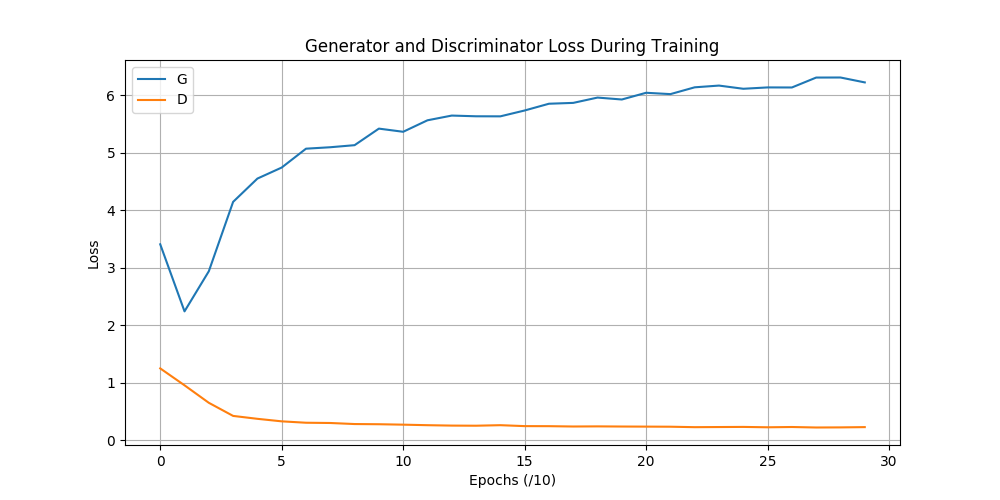
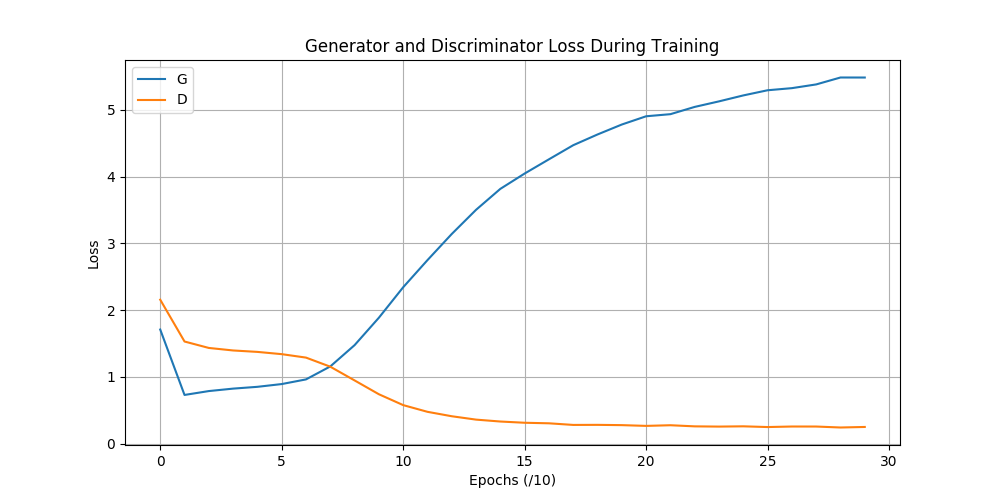
Resultats

diff --git a/W6.md b/W6.md
@@ -72,13 +72,31 @@ __Conclusion__ :
   
 ##### Test large en 32x32 batchsize=32 epochs=300 lrG=0.0004 lrD=0.00004 eps=0.00005
 La plupart des modèles vues sur le net on des réseaux bien plus gros que ceux utiliser jusqu'alors.
+Hypothèse 1: Le réseau actuel n'a pas la capacité pour apprendre au delà de quelques epochs
 Test avec plus de filtres et de couches pour G et D [Inspiration principal](https://github.com/gsurma/image_generator)
 
+Hypothèse 2: Le bruit qui sert à générer les samples est fixer une fois avant l'entrainment et ne bouge plus ensuite. On s'attend donc à observer une image qui évolue par étape en gardant une forme général.
+
 __Résultats__ :
-  - DCGAN (k=3,s=1,p=1): Les résultats sont similaire à ceux obtenues jusqu'ici.
+  - DCGAN (conv2d+Upsampl)(k=3,s=1,p=1): Les résultats sont similaire à ceux obtenues jusqu'ici. Mode collapse 
 		Time=45m
-  - DCGAN (k=5,s=1,p=2): 
+  - DCGAN (conv2d+Upsampl)(k=5,s=1,p=2): Les résultats sont proche de ceux obtenues avec (k=3,s=1,p=1). Le noyau de taille 5 réduit en parti les "bruits". Mode collapse
 		Time=1h
+  - DCGAN (convTranspose2d)(k=4,s=2,p=1): Les meilleurs images pour le moment !! Pas de mode collapse. L'apprentissage semble pouvoir continuer au delà de 300 epochs
+		Time=30m
+		
+__Conclusion__ :
+  - Il semble que convTranspose2d permettent d'éviter le mode collapse.
+  - Hypothèse 2 : On constate éfféctivement une même image qui ce précise au cour de l'entrainement avec (convTranspose2d). En revanche ce n'est absolument pas le cas avec (conv2d+Upsampl).
+  - Hypothèse 1 : Il semble au vues des courbes que le réseaux n'apprend pas plus longtemps.
+
+##### Test Mini en 32x32 batchsize=32 epochs=300 lrG=0.0004 lrD=0.00004 eps=0.00005
+Au vus des résultats de W5_mini_dcgan kernel 
+Un générateur très simplifier, pour DCGAN, avec deux couche de convTranspose2d.
+
+__Résultats__ :
+  - DCGAN : 
+		Time=
 		
 __Conclusion__ :
   - :
